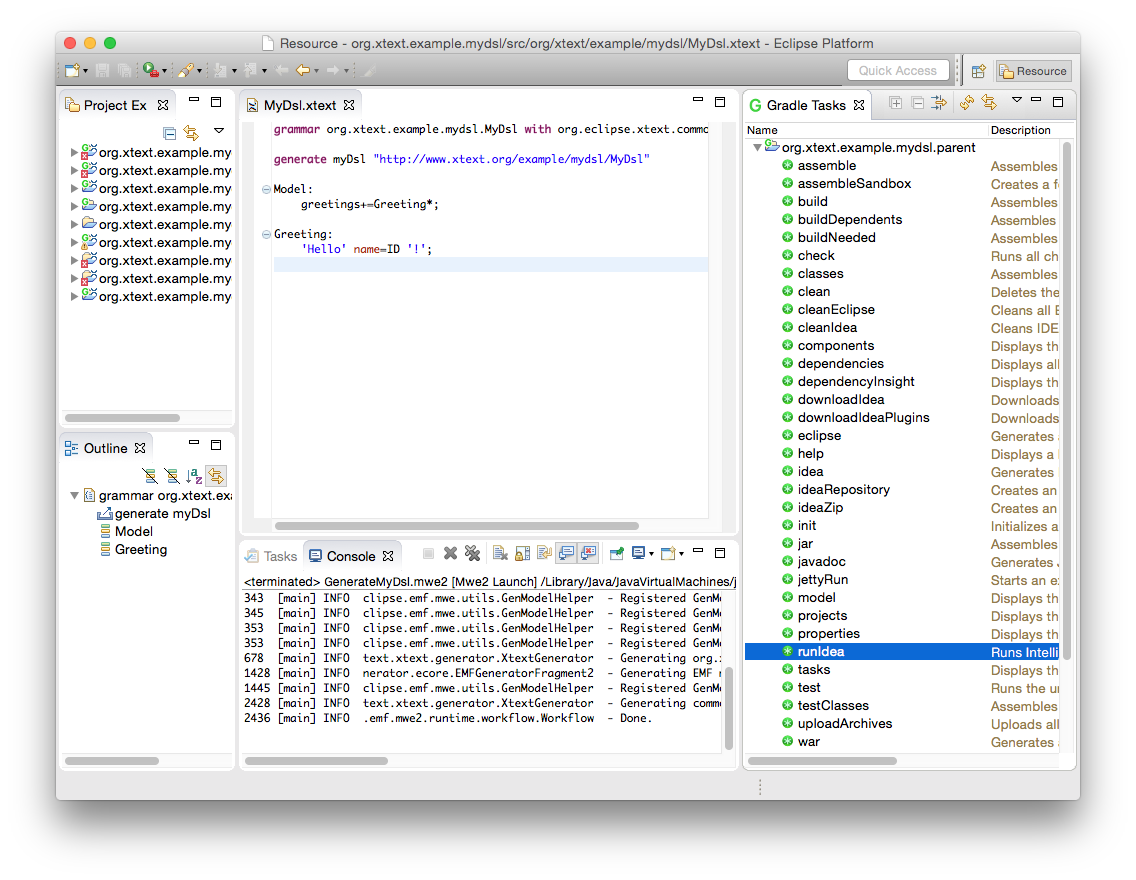
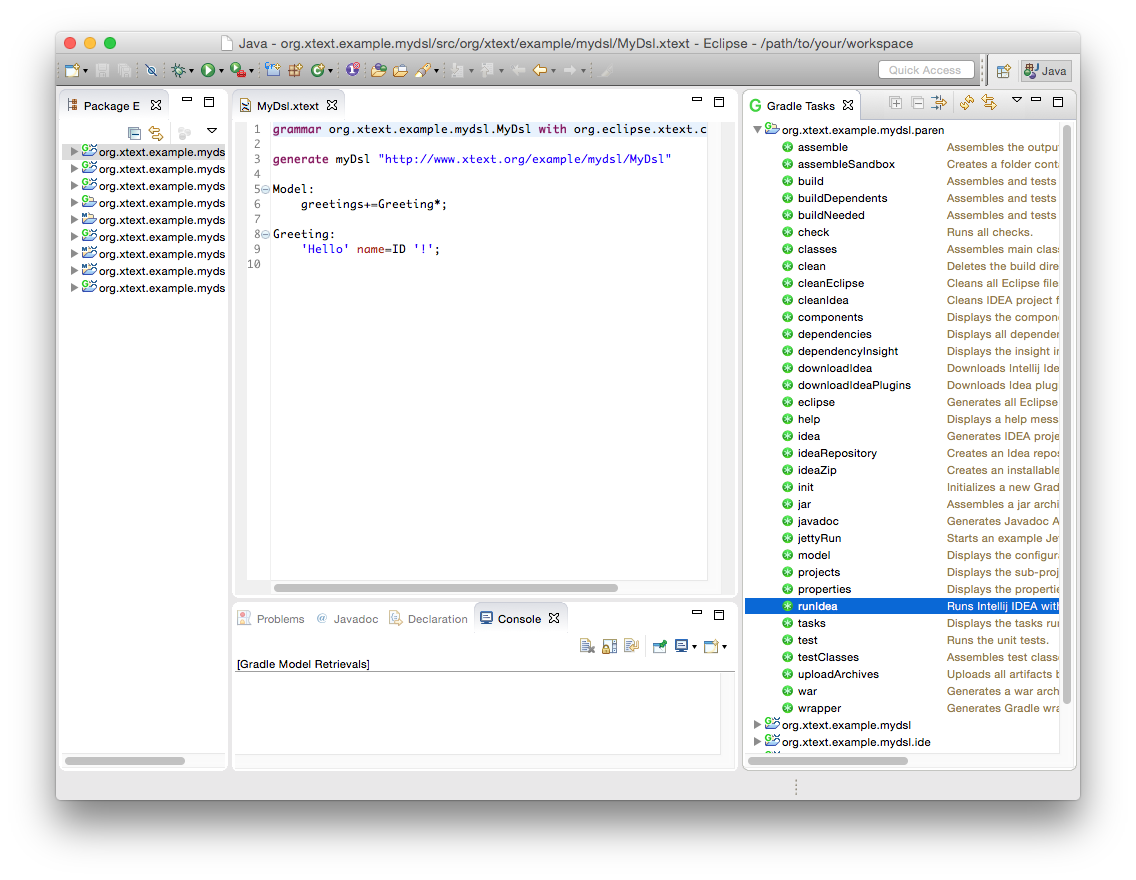
[xtext website] replaced the eclipse screenshots of the 5min tutorial (now free of error markers), minor modifications in the site's text, removed hint on downloading the zipped ANTLR generator

diff --git a/xtext-website/documentation/101_five_minutes.md b/xtext-website/documentation/101_five_minutes.md
@@ -8,7 +8,7 @@ part: Getting Started
 
 In this chapter you will learn how to create a new Xtext project, generate a fully working language infrastructure, and how to start editors tailored to your language for testing. We show you how this works for editors based on the Eclipse IDE, IntelliJ IDEA, and web browsers.
 
-But before we get started, make sure you have Eclipse Xtext properly [installed](../download.html). If you did not work with Eclipse yet you might want to choose the [Full Eclipse](../download.html) distribution, which you can unpack into the folder of your choice and run. Otherwise you may install Xtext via one of our [Update Sites](../download.html#updatesites) into your existing Eclipse IDE, and continue [here](#new-project).
+But before we get started, make sure you have Eclipse Xtext properly [installed](../download.html). If you did not work with Eclipse yet you might want to choose the [Full Eclipse](../download.html) distribution, which you can unpack into the folder of your choice and run. Otherwise you may install Xtext via the Eclipseone of our [Update Sites](../download.html#updatesites) or the [Eclipse Market Place](http://marketplace.eclipse.org/content/xtext) into your existing Eclipse IDE, and continue [here](#new-project). If you're interested in Xtext's IntelliJ IDEA or web support you need to install [Buildship](http://projects.eclipse.org/projects/tools.buildship), too, which is available via the [Eclipse Marketplace](http://marketplace.eclipse.org/content/buildship-gradle-integration), as well.
 
 After launching the Eclipse IDE you will be asked for a workspace directory, into which all the files and settings will be stored. You can start with the default proposal.
 
@@ -51,28 +51,13 @@ In order to test drive this language, you will have to generate the respective l
 
 ![](images/FiveMinTutorial_GenerateXtext.png)
 
-Note: The first time you will be asked to confirm the following:
-
-```
-*ATTENTION*
-It is recommended to use the ANTLR 3 parser generator
-	(BSD licence - http://www.antlr.org/license.html).
-Do you agree to download it (size 1MB) from
-	'http://download.itemis.com/antlr-generator-3.2.0-patch.jar'?
-(type 'y' or 'n' and hit enter)
-```
-
-Click into the *Console* view, type *y* and confirm. A file named *antlr-generator-3.2.0-patch.jar* will be copied into your project folder.
-
-You now obtain a runnable language infrastructure with a powerful Eclipse editor for a brain-dead language :-).
-
 ## Try The Eclipse Editor {#testing-eclipse-editor}
 
 Let's give the editor a try. If you select *Run As &rarr; Eclipse Application* from the project's context menu. A new Eclipse IDE instance will be launched and allows to test drive the editor.
 
 ![](images/FiveMinTutorial_RunEditor.png)
 
-Before you can create a file for the sample language in the test IDE you need to close the welcome page, of course, and create a sample project. Select *File &rarr; New &rarr; Project...* and choose a project type of your choice, e.g. *Java Project*, name it *Sample* and create a new file in the *src* folder of the project: From the context menu of the folder choose *New &rarr; File*, call it *Sample.mydsl* and hit *Finish*. The newly created editor for your language will open and ask you in a dialog, whether you want to add the Xtext nature to your project, which should be confirmed. You can now give the editor a try, e.g. use content assist (*Ctrl+Space*) to insert the keyword `Hello` and see how the input is validated immediately.
+Before you can create a file for the sample language in the test IDE you need to close the welcome page, of course, and create a sample project. Select *File &rarr; New &rarr; Project...* and choose a project type of your choice, e.g. *Java Project*, name it *Sample* and create a new file in the *src* folder of the project: From the context menu of the folder choose *New &rarr; File*, call it *Sample.mydsl* and hit *Finish*. The newly created editor for your language will open and ask you in a dialog, whether you want to add the Xtext nature to your project, which you should confirm. You can now give the editor a try, e.g. use content assist (*Ctrl+Space*) to insert the keyword `Hello` and see how the input is validated immediately.
 
 ![](images/FiveMinTutorial_EclipseEditor.png)
 
